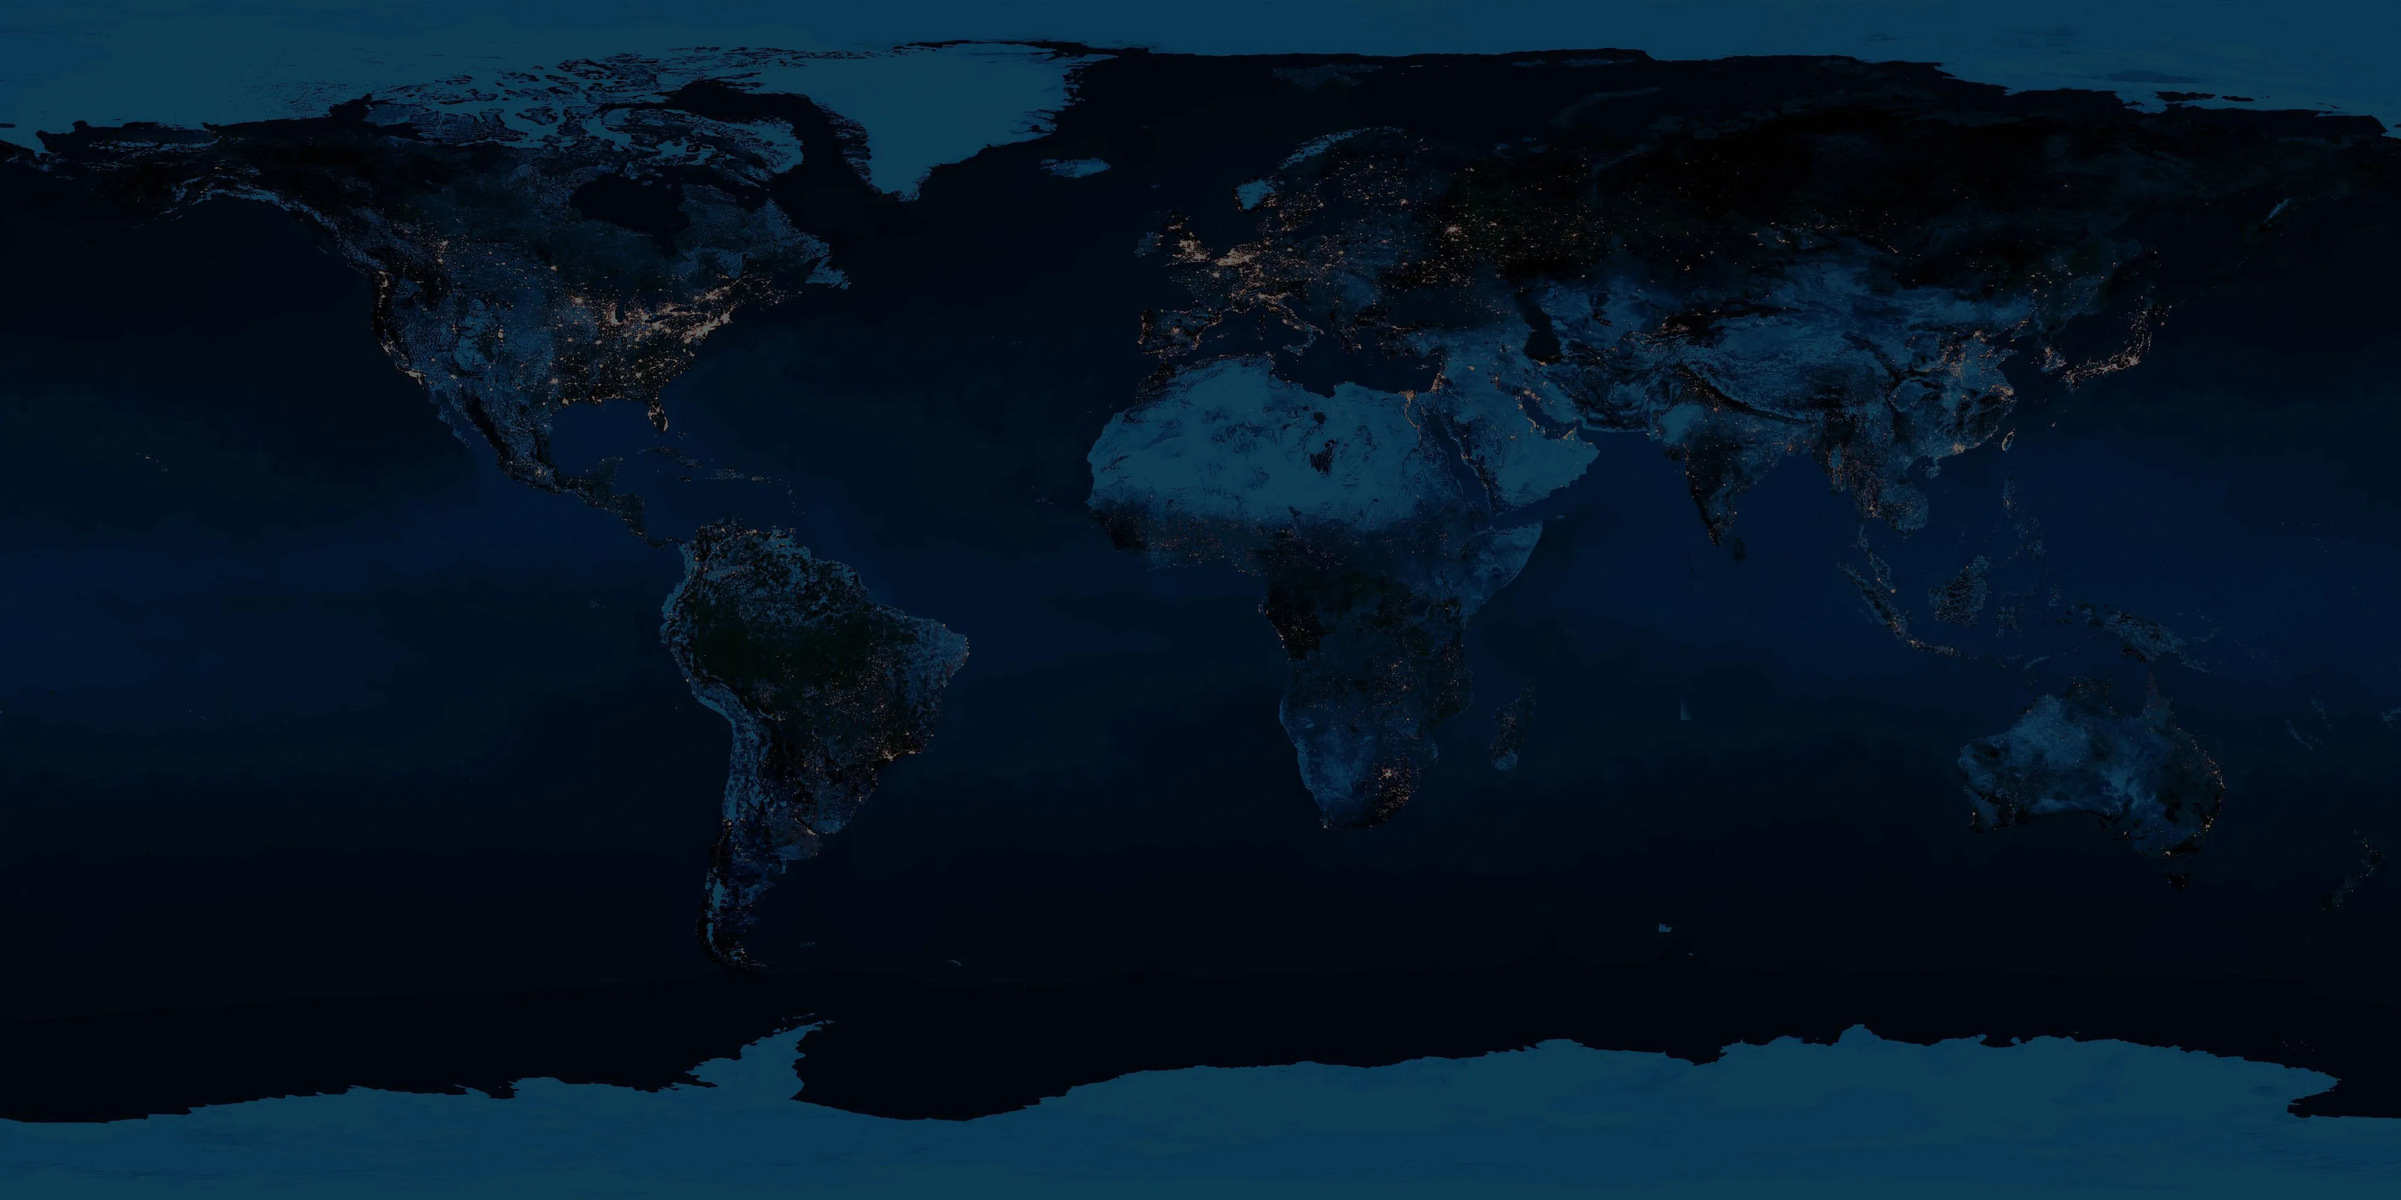
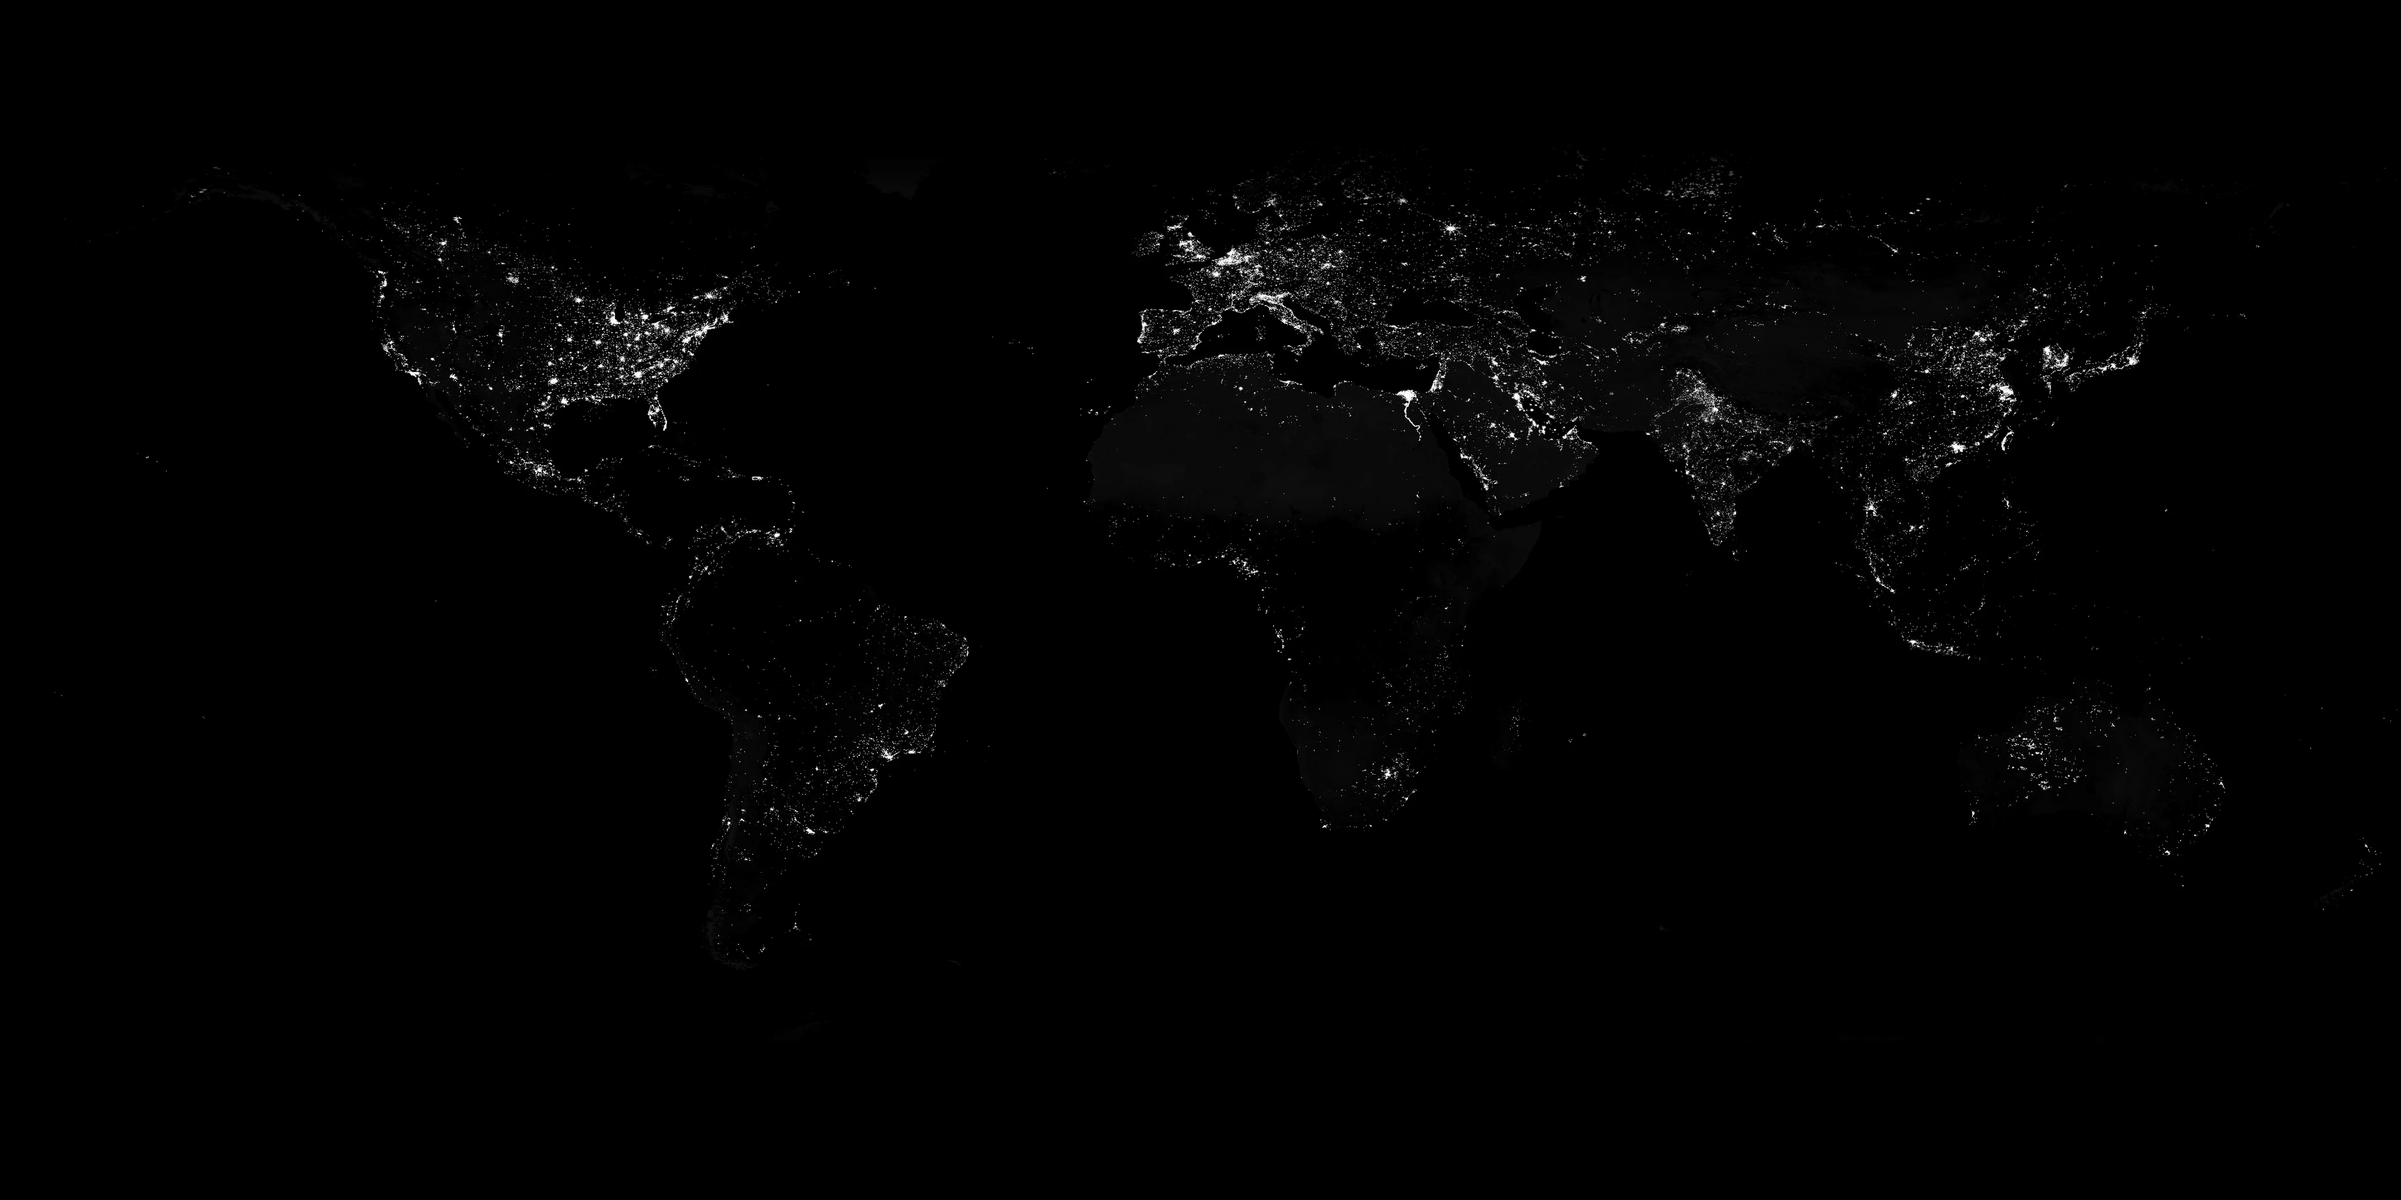
Земля: настоящая карта огней вместо битой и ореол вместо квадрата
Две беды в одном кадре, обе видны на снимке финала.

Первая. Карта ночных огней была браком: ярчайшая её точка тянула на
134 из 255 и была серой, огней городов в ней почти не было, зато весь
океан залит ровным синим. Этот синий, помноженный на золото свечения,
красил воду в зелёный - шар выходил не Землёй, а болотом, и ночной
стороны не получалось вовсе. Карта пересобрана из ночного снимка NASA
VIIRS DNB (общественное достояние): вычтен синий пол океана, погашены
полярные шапки, кривой оставлены города и намёк на материки. Океан в
ней чёрный по-настоящему. Сила свечения снижена с 2.35 до 1.7 -
честной карте множитель не нужен.

Вторая. На кромке диска висел мягкий белый квадрат в полсотни пикселей.
Разбор шёл долго: сперва казалось спрайтом, потом отражением окружения,
потом мип-картой. Оказалось - ореол. Буфер свечения вчетверо мельче
кадра, солнечный серп на кромке уносил его далеко за единицу, и один
тексель, растянутый обратно, и был этим квадратом. Лечится двумя
вещами: потолок яркости у источника ореола и второй, вдвое более узкий
проход размытия - пять отсчётов за один проход дают боксовое плато,
за два прохода оно становится круглым пятном. Оба прохода идут по
мелкому буферу и стоят почти ничего.

Заодно предел анизотропии спрашивается у железа, а не вбит четвёркой:
на скользящем угле у кромки шара четырёх выборок не хватало.

diff --git a/rocketcdn/assets/rc-flight.js b/rocketcdn/assets/rc-flight.js
@@ -2091,6 +2091,19 @@ function buildWorld() {
     } catch (e) { return false; }
   })();
 
+  /* Предел анизотропии берём у самого железа, а не числом из головы.
+
+     Стояла четвёрка, и на кромке диска Земли висел мягкий белый
+     КВАДРАТ. Приёмка сперва приняла его за сломанный спрайт, потом
+     за отражение окружения; оказалось проще и хуже. На кромке шара
+     текстура сжимается почти в нуль, и при скользящем угле выбирается
+     очень грубый уровень мип-карты: солнечный серп вместо дуги
+     разваливается в один размытый тексель. Четырёх выборок туда не
+     хватает, шестнадцати хватает. Карта у железа спрашивается сама -
+     где потолок ниже, возьмём его. */
+  var АНИЗО = 4;
+  try { АНИЗО = Math.max(4, Math.min(16, r.capabilities.getMaxAnisotropy())); } catch (eA) {}
+
   function tex(p) {
     var src = p;
     if (WEBP) src = p.replace(/\.(jpg|png)$/, ".webp");
@@ -2102,11 +2115,11 @@ function buildWorld() {
     var noop = function () {};
     var t = L.load(src, noop, noop, src === p ? noop : function () {
       var f = L.load(p);
-      f.anisotropy = 4;
+      f.anisotropy = АНИЗО;
       t.image = f.image;
       t.needsUpdate = true;
     });
-    t.anisotropy = 4;
+    t.anisotropy = АНИЗО;
     return t;
   }
 
@@ -2262,16 +2275,43 @@ function buildWorld() {
         roughnessMap: dayMap,
         roughness: 1.0,
         metalness: 0.0,
+        /* Карта огней - маска яркости, цвет ей даёт emissive. Прежняя
+           была браком: ярчайшая её точка тянула на 134 из 255 и была
+           серой, огней городов в ней не было почти совсем, зато весь
+           океан был залит ровным синим. Этот синий, умноженный на
+           золото свечения, и красил воду в зелёный - планета выходила
+           не Землёй, а болотом.
+
+           Теперь карта собрана из ночного снимка NASA VIIRS DNB
+           (dnb_land_ocean_ice.2012.3600x1800, общественное достояние):
+           вычтен синий пол океана, погашены полярные шапки (белое там
+           лунный свет на льду, не огни), кривой оставлены города и
+           намёк на материки. Океан в ней чёрный по-настоящему.
+
+           Сила свечения снижена с 2.35: прежняя карта нигде не
+           доходила до полной яркости, и множитель добирал её силой.
+           У честной карты города дают единицу сами. */
         emissiveMap: tex("assets/space/earth-night.webp"),
         emissive: new T.Color(0xffc978),
-        emissiveIntensity: 2.35,
+        emissiveIntensity: 1.7,
         /* Окружение планету почти не трогает. Панорама сцены яркая и
            светит со всех сторон разом: с полной силой она поднимала
            теневую половину до уровня освещённой, и Земля выходила
            дневной в любом положении корабля - сколько ни двигай
            светило. Форму шара должно задавать одно солнце, как в
-           жизни, а окружение оставим металлу корабля. */
-        envMapIntensity: 0.05
+           жизни, а окружение оставим металлу корабля.
+
+           Ноль, а не пять сотых. На кромке диска висел мягкий белый
+           КВАДРАТ - приёмка сперва приняла его за сломанный спрайт.
+           Это отражение: океан гладкий (шероховатость 0.18), он
+           отражал панораму окружения, а на такой гладкости панорама
+           берётся с грубого уровня мип-карты - один яркий тексель
+           солнца и разворачивался в квадрат. Проверено поворотом:
+           пятно почти не ехало вместе с поверхностью, значит
+           отражение, а не текстура. Пять сотых картине не давали
+           ничего, квадрат давали. Блик от самого светила остаётся,
+           он и должен быть единственным. */
+        envMapIntensity: 0.0
       });
       m.onBeforeCompile = function (sh) {
         sh.uniforms.uSunDir = { value: new T.Vector3(0.82, 0.28, 0.50).normalize() };

diff --git a/rocketcdn/assets/rc-real.js b/rocketcdn/assets/rc-real.js
@@ -363,12 +363,23 @@ var VERT = "varying vec2 vUv; void main(){ vUv = uv; gl_Position = vec4(position
 
 /* Яркие места отдельно: всё, что выше порога, уходит в размытие
    и возвращается ореолом. Так светятся лампы и голограммы. */
+/* Потолок яркости у источника ореола. Без него одна раскалённая
+   точка - солнечный серп на кромке Земли - уносила буфер свечения
+   далеко за единицу, и на кадре вместо ореола висел МЯГКИЙ БЕЛЫЙ
+   КВАДРАТ размером в полсотни пикселей. Приёмка приняла его сперва
+   за сломанный спрайт, потом за отражение окружения; на деле буфер
+   свечения вчетверо мельче кадра, и один его тексель, растянутый
+   обратно, и есть тот квадрат. Ограничение сверху оставляет ореол
+   ореолом: яркое остаётся ярким, но перестаёт заливать соседей. */
 var BRIGHT = [
   "uniform sampler2D tD; uniform float thr; uniform float soft; varying vec2 vUv;",
   "void main(){ vec4 c = texture2D(tD, vUv);",
   "  float l = dot(c.rgb, vec3(0.2126,0.7152,0.0722));",
   "  float k = smoothstep(thr, thr + soft, l);",
-  "  gl_FragColor = vec4(c.rgb * k, 1.0); }"
+  "  vec3 b = c.rgb * k;",
+  "  float m = max(max(b.r, b.g), b.b);",
+  "  if (m > 2.2) b *= 2.2 / m;",
+  "  gl_FragColor = vec4(b, 1.0); }"
 ].join("\n");
 
 var BLUR = [
@@ -503,12 +514,21 @@ R.post = function (T, renderer, opt) {
       renderer.setRenderTarget(P.b1);
       renderer.clear();
       renderer.render(sBright, cam);
-      mBlur.uniforms.tD.value = P.b1.texture;
-      mBlur.uniforms.dir.value.set(1.1 / bw, 0);
-      renderer.setRenderTarget(P.b2); renderer.clear(); renderer.render(sBlur, cam);
-      mBlur.uniforms.tD.value = P.b2.texture;
-      mBlur.uniforms.dir.value.set(0, 1.1 / bh);
-      renderer.setRenderTarget(P.b1); renderer.clear(); renderer.render(sBlur, cam);
+      /* Два прохода размытия вместо одного. Пять отсчётов на проход
+         дают не круглый ореол, а боксовое плато с прямыми краями -
+         в мелком буфере оно и читается квадратом. Второй проход
+         вдвое уже первого, и плато становится круглым пятном.
+         Проходы идут по буферу вчетверо мельче кадра, стоят они
+         почти ничего. */
+      var ход = [[1.1, 0.5], [0.5, 0.28]];
+      for (var пр = 0; пр < ход.length; пр++) {
+        mBlur.uniforms.tD.value = P.b1.texture;
+        mBlur.uniforms.dir.value.set(ход[пр][0] / bw, 0);
+        renderer.setRenderTarget(P.b2); renderer.clear(); renderer.render(sBlur, cam);
+        mBlur.uniforms.tD.value = P.b2.texture;
+        mBlur.uniforms.dir.value.set(0, ход[пр][0] / bh);
+        renderer.setRenderTarget(P.b1); renderer.clear(); renderer.render(sBlur, cam);
+      }
     }
 
     mComp.uniforms.time.value = (t || 0) * 0.001;

diff --git a/rocketcdn/assets/rc-flight.css b/rocketcdn/assets/rc-flight.css
@@ -2864,7 +2864,7 @@ html.rc-stage #spaceBg { opacity: 0 !important; }
 /* Карта в досье не выше трети окна: иначе описание и показатели
    уезжали за нижнюю кромку рамки */
 .rc-flight .rcf-dos-map {
-  max-height: clamp(132px, 30vh, 300px);
+  max-height: clamp(132px, 34vh, 300px);
   object-fit: cover;
 }
 
